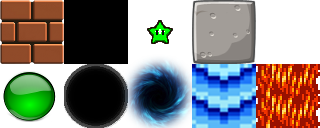
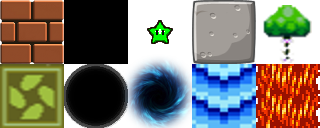
fim

Changed region(s): [[0.0, 0.5, 0.2188, 1.0], [0.8125, 0.0312, 1.0, 0.5]]

diff --git a/js/screens.js b/js/screens.js
@@ -3,7 +3,9 @@ class PlayState extends GameState {
     preload() {
         this.game.load.image('fullscreen-button', 'assets/fullscreen-button.png')
         this.game.load.spritesheet('star', 'assets/star.png', 62, 62)
+        this.game.load.image('diminutive', 'assets/diminutive.png')
         this.game.load.image('block4-1', 'assets/block4-1.png')
+        this.game.load.image('allkill', 'assets/allkill.png')
         this.game.load.image('nHole', 'assets/nextHole.png')
         this.game.load.image('block1', 'assets/block1.png')
         this.game.load.image('block2', 'assets/block2.png')
@@ -21,7 +23,7 @@ class PlayState extends GameState {
         this.game.load.image('pause', 'assets/pause.png')
         this.game.load.image('menu', 'assets/menu.png')
         this.game.load.image('hole', 'assets/hole.png')
-
+        
         this.game.load.tilemap('mapA', 'assets/mapa1.json', null, Phaser.Tilemap.TILED_JSON)
         this.game.load.tilemap('mapB', 'assets/mapa2.json', null, Phaser.Tilemap.TILED_JSON)
         this.game.load.tilemap('mapC', 'assets/mapa3.json', null, Phaser.Tilemap.TILED_JSON)
@@ -34,6 +36,7 @@ class PlayState extends GameState {
         this.game.load.audio('music2', ['audio/music2.mp3', 'audio/music2.ogg'])
         this.game.load.audio('music3', ['audio/music3.mp3', 'audio/music3.ogg'])
         this.game.load.audio('music4', ['audio/music4.mp3', 'audio/music4.ogg'])
+        this.game.load.audio('allkill', ['audio/allkill.mp3', 'audio/allkill.ogg'])
     }
 
     create() {
@@ -45,6 +48,7 @@ class PlayState extends GameState {
         this.holes = null
         this.water = null
         this.street = null
+        this.diminutive = null
 
         this.menu = null
         this.ball = null
@@ -83,6 +87,7 @@ class PlayState extends GameState {
         this.game.map = this.map
         this.game.ball = this.ball
         this.game.stars = this.stars
+        this.game.holes = this.holes
 
         this.ball.music = this.game.add.audio('music1')
         this.ball.music.onStop.add(this.restartMusic, this.ball.music)
@@ -139,8 +144,9 @@ class PlayState extends GameState {
         this.ball.score = 0
 
         this.ball.musicEnd = this.game.add.audio('end')
-        this.ball.musicStar = this.game.add.audio('star')
         this.ball.musicHole = this.game.add.audio('hole')
+        this.ball.musicStar = this.game.add.audio('star')
+        this.ball.allkill = this.game.add.audio('allkill')
     }
 
     createMap(mapTmx, mapNB, object, background) {
@@ -149,10 +155,11 @@ class PlayState extends GameState {
         this.game.world.setBounds(0, 0, this.mapTmx.widthInPixels, this.mapTmx.heightInPixels)
 
         this.map = this.game.add.group()
+        this.lava = this.game.add.group()
         this.stars = this.game.add.group()
         this.holes = this.game.add.group()
         this.water = this.game.add.group()
-        this.lava = this.game.add.group()
+        this.diminutive = this.game.add.group()
 
         this.mapTmx.createFromObjects('mapa1', 1, object, 0, true, false, this.map, Block)
         this.mapTmx.createFromObjects('mapa1', 2, 'black', 0, true, false, this.map, Block)
@@ -161,6 +168,8 @@ class PlayState extends GameState {
         this.mapTmx.createFromObjects('mapa1', 8, 'nHole', 0, true, false, this.holes, Hole)
         this.mapTmx.createFromObjects('mapa1', 9, 'block4', 0, true, false, this.water, Block)
         this.mapTmx.createFromObjects('mapa1', 10, 'block4-1', 0, true, false, this.lava, Block)
+        this.mapTmx.createFromObjects('mapa1', 5, 'diminutive', 0, true, false, this.diminutive, Diminutive)
+        this.mapTmx.createFromObjects('mapa1', 6, 'allkill', 0, true, false, this.diminutive, AllKill)
     }
 
     killStar(ball, star){
@@ -185,6 +194,7 @@ class PlayState extends GameState {
         this.ball.score = 0
         this.ball.text.text = ''
         this.ball.visible = true
+        this.ball.scale.setTo(1, 1)
         this.ball.loadTexture(sprite, 0)
     }
 
@@ -193,6 +203,7 @@ class PlayState extends GameState {
         this.stars.killAll()
         this.holes.killAll()
         this.water.killAll()
+        this.diminutive.killAll()
 
         this.map = null
         this.stars = null
@@ -205,6 +216,7 @@ class PlayState extends GameState {
         if(! (this.ball.level == this.game.actualLevel) ){
             this.ball.musicEnd.play()
             this.game.actualLevel += 1
+            this.game.points += this.ball.score
         } else {
             this.game.die += 1
         }
@@ -215,7 +227,6 @@ class PlayState extends GameState {
     rebuild(){
         this.updaterMusics()
         var level = this.ball.level
-        this.game.points += this.ball.score
         this.killAll()
 
         switch(level){
@@ -244,8 +255,10 @@ class PlayState extends GameState {
             break
 
             case 5:
-                this.game.text1.text = 'PARABENS!'
-                this.game.text2.text = 'PONTOS: ' + (this.game.score/ this.game.die)
+                this.ball.level = 1
+                this.ball.music = this.game.add.audio()
+                this.createMap(this.mapTmx, 'mapA', 'block1', 'back1')
+                this.changeBall('ball1', 110, 110)
             break
         }
 
@@ -282,6 +295,13 @@ class PlayState extends GameState {
         this.pause.inputEnabled = true
         this.pause.input.useHandCursor = true
         this.pause.events.onInputDown.add(this.destroySprite, this)
+
+        console.log('level: ' + this.game.actualLevel)
+        if(this.game.actualLevel == 5){
+            this.game.text1.text = 'PARABENS!'
+            this.game.text2.text = 'PONTOS: ' + (this.game.score/this.game.die)
+            this.game.actualLevel = 1
+        }
     }
 
     canDie(ball, lava){

diff --git a/js/objects.js b/js/objects.js
@@ -54,6 +54,60 @@ class Block extends Phaser.TileSprite {
     }
 }
 
+class Diminutive extends Phaser.TileSprite {
+    constructor(game, x, y, asset) {
+        super(game, x, y, 32, 32, asset)
+        this.game.physics.arcade.enable(this)
+        this.body.syncBounds = true
+        this.body.immovable = true
+        this.tag = 'diminutive'
+        this.autoCull = true
+
+        this.game = game
+    }
+
+    diminutive(sprite, ball){
+        ball.scale.setTo(0.5, 0.5)
+        sprite.kill()
+    }
+
+    update(){
+        this.game.physics.arcade.collide(this, this.game.ball, this.diminutive)
+    }
+}
+
+class AllKill extends Phaser.TileSprite {
+    constructor(game, x, y, asset) {
+        super(game, x, y, 32, 32, asset)
+        this.game.physics.arcade.enable(this)
+        this.body.syncBounds = true
+        this.body.immovable = true
+        this.tag = 'allkill'
+        this.autoCull = true
+
+        this.game = game
+    }
+
+    allkill(sprite, ball){
+        //iterando no grupo de buracos
+        for (var i = 0, len = sprite.game.holes.length; i < len; i ++) {
+            var hole = sprite.game.holes.getAt(i)
+            if(hole.key == 'nHole'){
+                continue
+            }
+
+            hole.kill()
+        }
+
+        ball.allkill.play()
+        sprite.kill()
+    }
+
+    update(){
+        this.game.physics.arcade.collide(this, this.game.ball, this.allkill)
+    }
+}
+
 class Star extends Phaser.TileSprite {
     constructor(game, x, y, asset) {
         super(game, x, y, 32, 32, asset)
